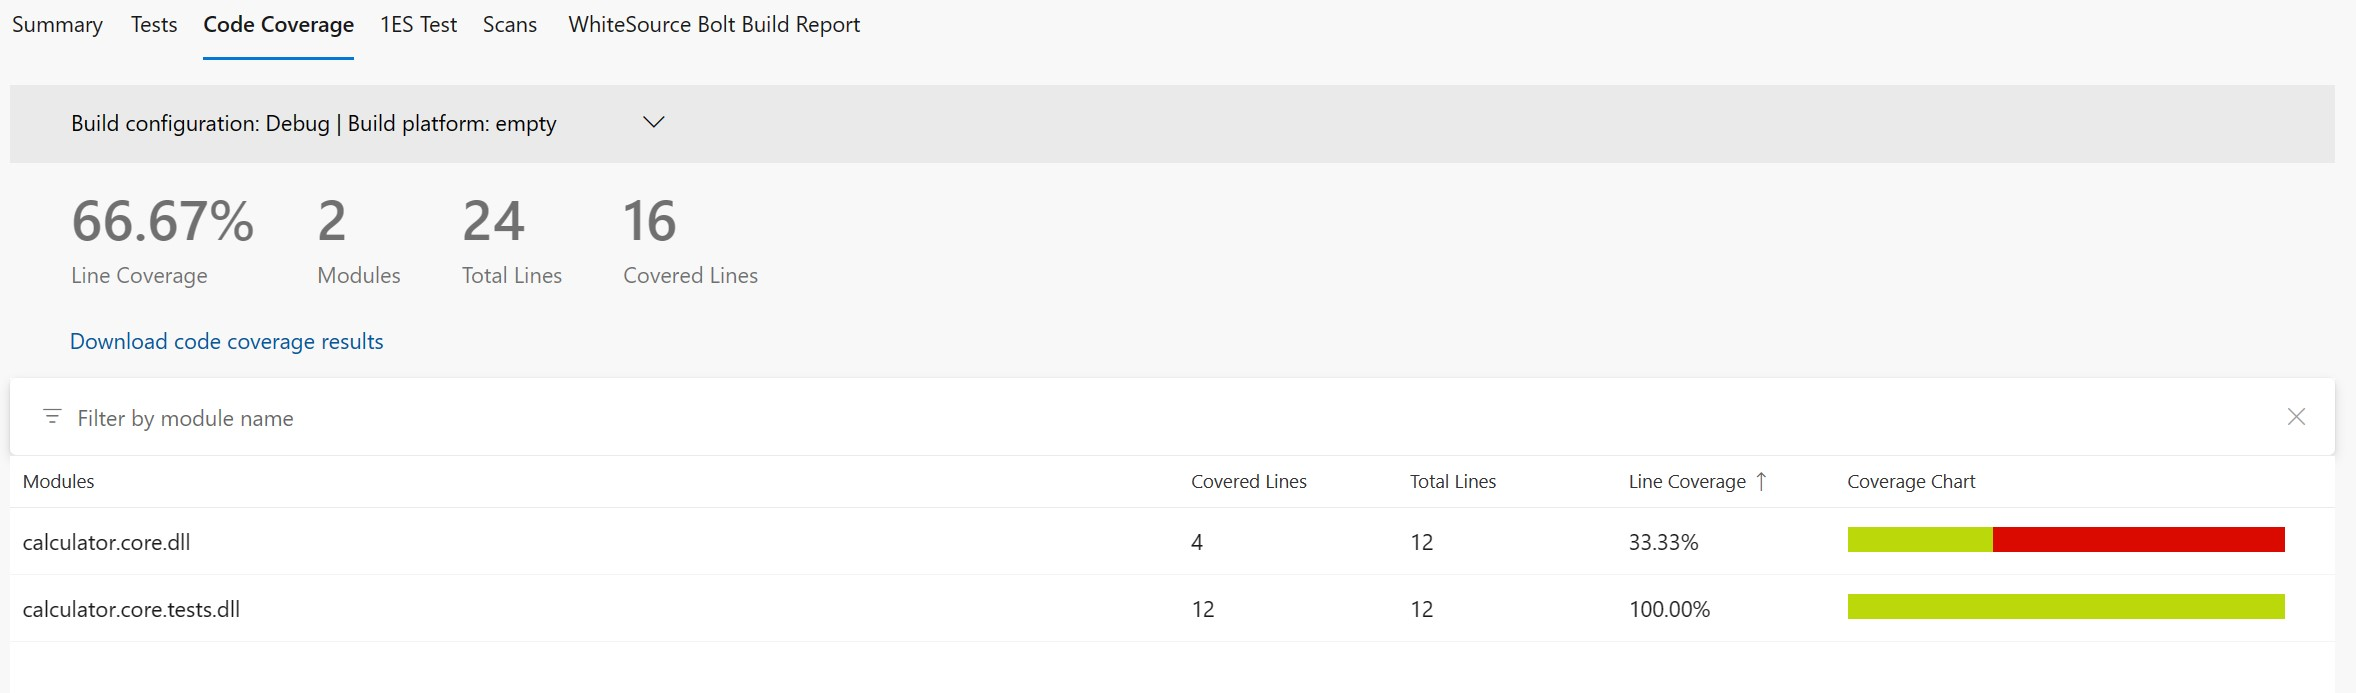
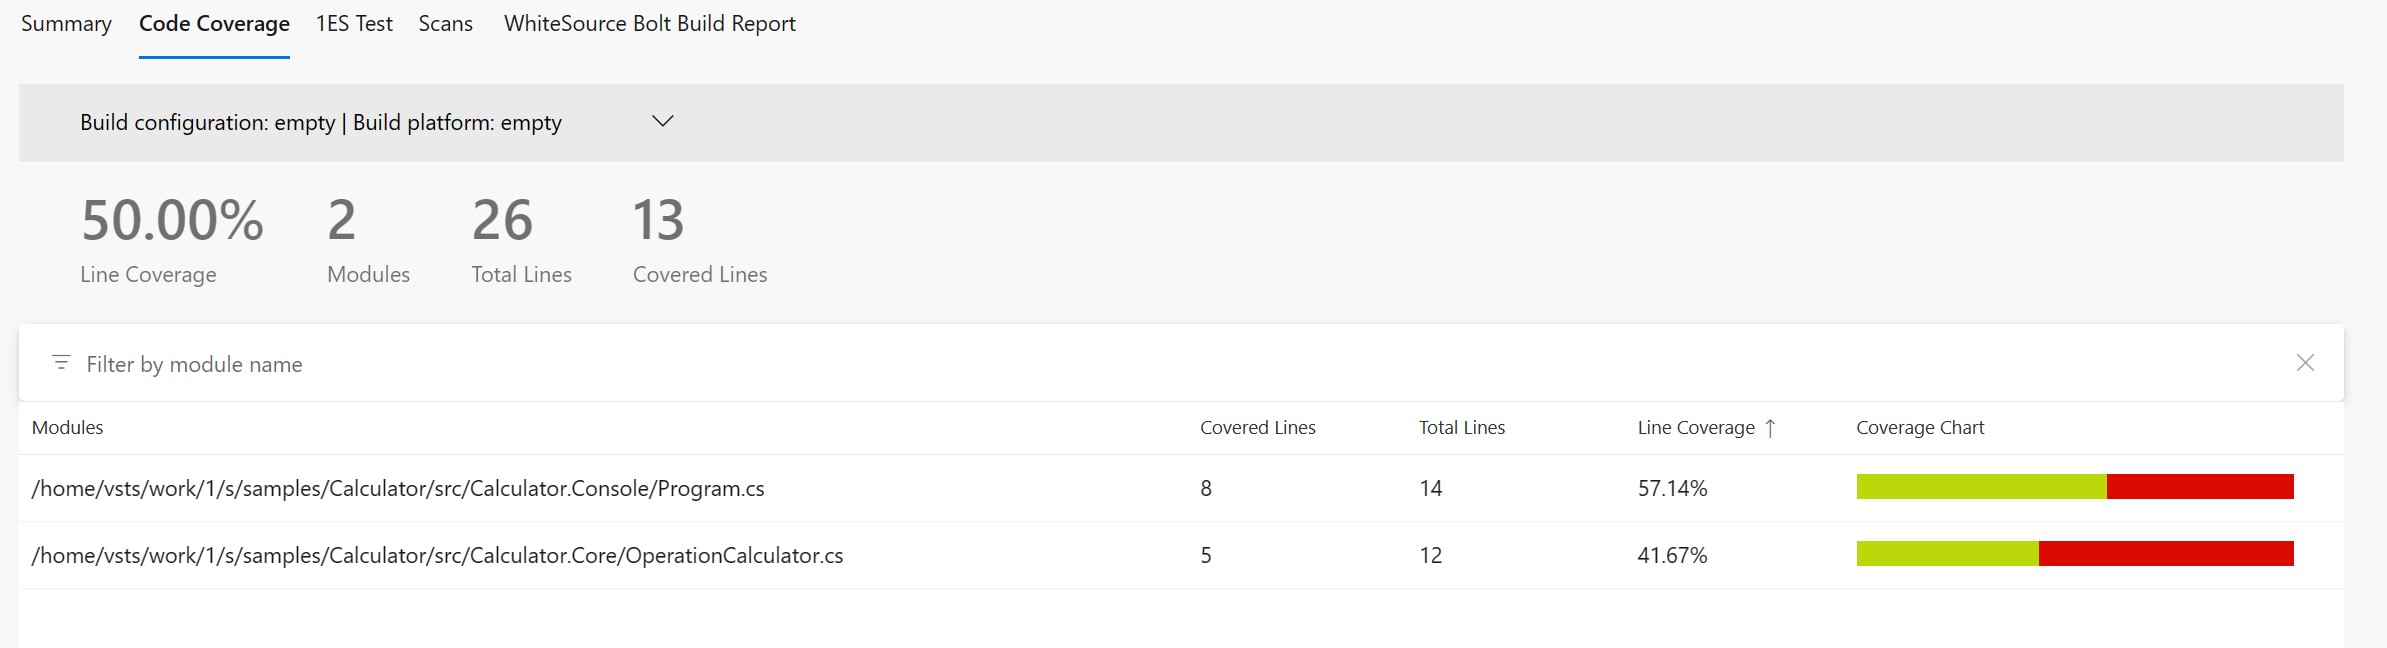
Scenario 8 done

diff --git a/samples/Calculator/scenarios/scenario08/README.md b/samples/Calculator/scenarios/scenario08/README.md
@@ -27,12 +27,10 @@ You can also use [run.ps1](run.ps1) to execute this scenario.
       run: dotnet restore
     - name: Build
       run: dotnet build --no-restore
-    - name: Test
-      run: dotnet test --settings ../../scenarios/scenario07/coverage.runsettings --no-build --verbosity normal
     - name: Install dotnet-coverage
       run: dotnet tool install -g dotnet-coverage
-    - name: Convert .coverage report to cobertura
-      run: dotnet-coverage merge -r $GITHUB_WORKSPACE/samples/Calculator/tests/Calculator.Core.Tests/TestResults/*.coverage -f cobertura -o $GITHUB_WORKSPACE/report.cobertura.xml
+    - name: Run
+      run: dotnet-coverage collect -f cobertura -o $GITHUB_WORKSPACE/report.cobertura.xml "dotnet run --no-build add 10 24"
     - name: ReportGenerator
       uses: danielpalme/ReportGenerator-GitHub-Action@5.1.24
       with:
@@ -45,12 +43,12 @@ You can also use [run.ps1](run.ps1) to execute this scenario.
       uses: actions/upload-artifact@v3
       with:
         name: code-coverage-report
-        path: ./**/TestResults/**/*.coverage
+        path: '${{ github.workspace }}/report.cobertura.xml'
 ```
 
-[Full source example](../../../../.github/workflows/Calculator_Scenario07.yml)
+[Full source example](../../../../.github/workflows/Calculator_Scenario08.yml)
 
-[Run example](../../../../../../actions/workflows/Calculator_Scenario07.yml)
+[Run example](../../../../../../actions/workflows/Calculator_Scenario08.yml)
 
 # Collect code coverage inside Azure DevOps Pipelines
 
@@ -71,13 +69,21 @@ steps:
 
 - task: DotNetCoreCLI@2
   inputs:
-    command: 'test'
-    arguments: '--no-build --configuration $(buildConfiguration) --settings samples/Calculator/scenarios/scenario07/coverage.runsettings'
-    projects: '$(projectPath)' # this is specific to example - in most cases not needed
-  displayName: 'dotnet test'
-```
+    command: 'custom'
+    custom: "tool"
+    arguments: 'install -g dotnet-coverage'
+  displayName: 'install dotnet-coverage'
 
-> **_NOTE:_** Azure DevOps pipelines automatically recognize binary coverage report format. Code coverage results are automatically processed and published to Azure DevOps. No additional steps needed.
+- task: Bash@3
+  inputs:
+    targetType: 'inline'
+    script: 'dotnet-coverage collect -f cobertura -o report.cobertura.xml "dotnet run --project $(projectPath) --no-build add 10 24"'
+  displayName: 'dotnet run'
+
+- task: PublishCodeCoverageResults@2
+  inputs:
+    summaryFileLocation: '$(Build.SourcesDirectory)/report.cobertura.xml'
+```
 
 [Full source example](azure-pipelines.yml)
 

diff --git a/samples/Calculator/scenarios/scenario06/README.md b/samples/Calculator/scenarios/scenario06/README.md
@@ -116,4 +116,4 @@ steps:
 
 ![alt text](example.report.jpg "Example report")
 
-[Link](example.report.cobertura.xml)
+[Link](example.report.coverage)

diff --git a/samples/Calculator/scenarios/scenario07/README.md b/samples/Calculator/scenarios/scenario07/README.md
@@ -107,4 +107,4 @@ steps:
 
 ![alt text](example.report.jpg "Example report")
 
-[Link](example.report.cobertura.xml)
+[Link](example.report.coverage)
